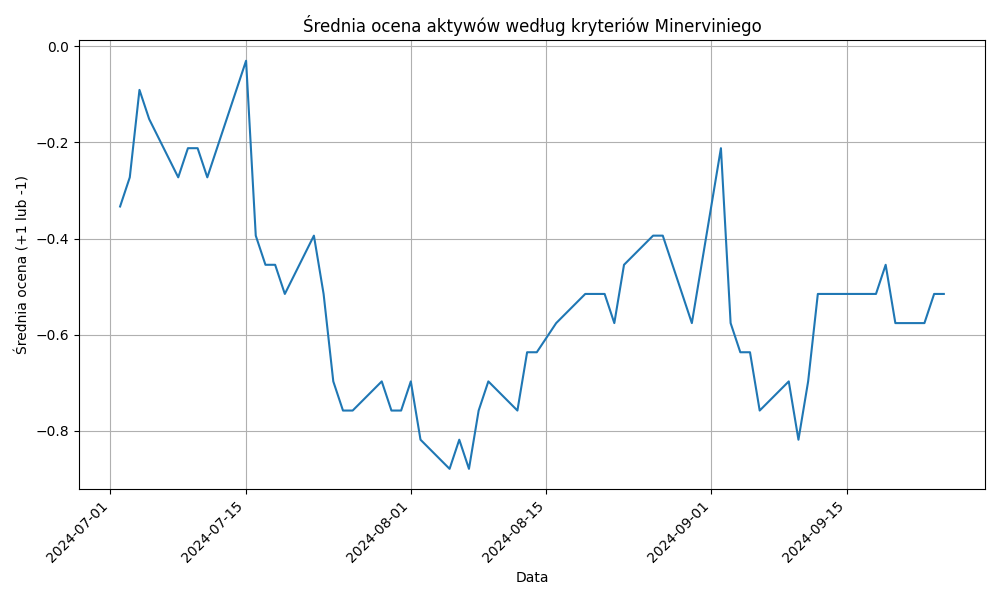
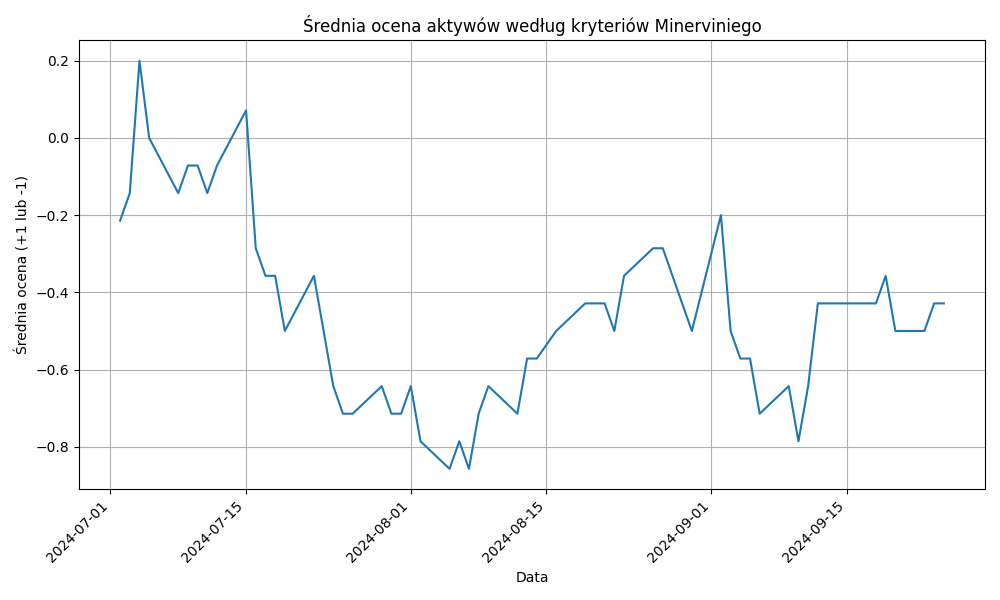
deploy: c1a94c057f85c263817d28b0adb26026a2642f0e

diff --git a/1download.py b/1download.py
@@ -1,129 +1,96 @@
 import yfinance as yf
 import pandas as pd
-import numpy as np
 import os
-from datetime import timedelta
+from datetime import datetime, timedelta
 import matplotlib.pyplot as plt
-import logging
-
-# Ustawienie konfiguracji logowania
-logging.basicConfig(level=logging.INFO, format='%(asctime)s - %(levelname)s - %(message)s')
-
-# Normalizacja dzisiejszej daty
-dzisiaj = pd.Timestamp.today().normalize()
-start_date = dzisiaj - timedelta(days=450)  # Około 15 miesięcy
 
 # Lista aktywów
 polskie_spolki = ['PKN.WA', 'PZU.WA', 'KGH.WA', 'PEO.WA', 'PKO.WA', 'LPP.WA', 'DNP.WA', 'CDR.WA', 'ALR.WA', 'MRC.WA']
 amerykanskie_spolki = ['AAPL', 'MSFT', 'GOOGL', 'AMZN', 'TSLA', 'META', 'NVDA', 'BRK-B', 'JNJ', 'V']
 metale_szlachetne = ['GC=F', 'SI=F', 'PL=F', 'PA=F']
 surowce = ['CL=F', 'NG=F', 'BZ=F', 'HG=F']
-kryptowaluty = ['BTC-USD', 'ETH-USD', 'XRP-USD', 'ADA-USD', 'DOGE-USD']
+aktywa = polskie_spolki + amerykanskie_spolki + metale_szlachetne + surowce
 
-aktywa = polskie_spolki + amerykanskie_spolki + metale_szlachetne + surowce + kryptowaluty
+# Ustawienie dat
+dzisiaj = datetime.today()
+start_date = dzisiaj - timedelta(days=450)  # Około 15 miesięcy
 
 def pobierz_dane(ticker, interval='1d', start=None):
-    """
-    Pobiera dane dla podanego tickera z Yahoo Finance.
-
-    Parametry:
-    ticker (str): Symbol aktywa.
-    interval (str): Interwał danych (domyślnie '1d' - dzienny).
-    start (str): Data początkowa w formacie 'YYYY-MM-DD'.
-
-    Zwraca:
-    DataFrame: Dane pobrane dla danego tickera.
-    """
     try:
         if start:
             df = yf.download(ticker, start=start, end=dzisiaj.strftime('%Y-%m-%d'), interval=interval)
         else:
             df = yf.download(ticker, start=start_date.strftime('%Y-%m-%d'), end=dzisiaj.strftime('%Y-%m-%d'), interval=interval)
         if df.empty:
-            logging.warning(f"Brak danych dla {ticker}. Ticker może być niedostępny.")
+            print(f"Brak danych dla {ticker}. Ticker może być niedostępny.")
             return None
         else:
             # Usunięcie dzisiejszego dnia z danych
             df = df[df.index < dzisiaj]
             return df
     except Exception as e:
-        logging.error(f"Błąd podczas pobierania danych dla {ticker}: {e}")
+        print(f"Błąd podczas pobierania danych dla {ticker}: {e}")
         return None
 
 def aktualizuj_dane(ticker):
-    """
-    Aktualizuje dane dla podanego tickera, zapisując je do pliku CSV.
-
-    Parametry:
-    ticker (str): Symbol aktywa.
-
-    Zwraca:
-    DataFrame: Zaktualizowane dane dla danego tickera.
-    """
     plik = f'{ticker}_data.csv'
     if os.path.exists(plik):
         df = pd.read_csv(plik, index_col=0, parse_dates=True)
-        ostatnia_data = df.index[-1].normalize()
-        if ostatnia_data >= dzisiaj:
-            logging.info(f"Dane dla {ticker} są aktualne.")
+        ostatnia_data = df.index[-1] + pd.Timedelta(days=1)
+        if ostatnia_data.date() >= dzisiaj.date():
+            print(f"Dane dla {ticker} są aktualne.")
             return df
         else:
-            logging.info(f"Aktualizuję dane dla {ticker} od {ostatnia_data.strftime('%Y-%m-%d')}...")
+            print(f"Aktualizuję dane dla {ticker} od {ostatnia_data.date()}...")
             nowe_dane = pobierz_dane(ticker, start=ostatnia_data.strftime('%Y-%m-%d'))
             if nowe_dane is not None:
                 df = pd.concat([df, nowe_dane])
                 df = df[~df.index.duplicated(keep='last')]
                 df.sort_index(inplace=True)
                 df.to_csv(plik)
-            else:
-                logging.warning(f"Brak nowych danych dla {ticker}.")
     else:
-        logging.info(f"Pobieram dane dla {ticker}...")
+        print(f"Pobieram dane dla {ticker}...")
         df = pobierz_dane(ticker)
         if df is not None:
             df.to_csv(plik)
-        else:
-            logging.warning(f"Brak danych dla {ticker}.")
     return df
 
+dane = {}
+for ticker in aktywa:
+    df = aktualizuj_dane(ticker)
+    if df is not None:
+        dane[ticker] = df
+
+print("Dane pobrane i zapisane do plików CSV.")
+
 def oblicz_sma(df, okres):
-    """
-    Oblicza średnią kroczącą (SMA) dla podanego okresu.
-
-    Parametry:
-    df (DataFrame): Dane zawierające kolumnę 'Close'.
-    okres (int): Okres dla średniej kroczącej.
-
-    Zwraca:
-    Series: Średnia krocząca.
-    """
     return df['Close'].rolling(window=okres).mean()
 
 def sprawdz_kryteria_minerviniego(df):
-    """
-    Sprawdza kryteria Minerviniego dla podanego DataFrame.
-
-    Parametry:
-    df (DataFrame): Dane zawierające kolumnę 'Close'.
-
-    Zwraca:
-    DataFrame: Dane z dodaną kolumną 'minervini_ocena'.
-    """
     df['SMA_50'] = oblicz_sma(df, 50)
     df['SMA_150'] = oblicz_sma(df, 150)
     df['SMA_200'] = oblicz_sma(df, 200)
-
+    
     df['52_tyg_min'] = df['Close'].rolling(window=252).min()
     df['52_tyg_max'] = df['Close'].rolling(window=252).max()
 
     # Usunięcie wierszy z brakującymi wartościami
-    df = df.dropna(subset=['SMA_50', 'SMA_150', 'SMA_200', '52_tyg_min', '52_tyg_max']).copy()
+    df = df.dropna(subset=['SMA_50', 'SMA_150', 'SMA_200', '52_tyg_min', '52_tyg_max'])
+    df = df.copy()  # Upewniamy się, że pracujemy na kopii danych
 
-    # Kryteria Minerviniego
+    # Kryterium 1
     kryterium_1 = (df['SMA_50'] > df['SMA_150']) & (df['SMA_50'] > df['SMA_200'])
+    
+    # Kryterium 2
     kryterium_2 = df['SMA_150'] > df['SMA_200']
+    
+    # Kryterium 3
     kryterium_3 = (df['Close'] > df['SMA_50']) & (df['Close'] > df['SMA_150']) & (df['Close'] > df['SMA_200'])
+    
+    # Kryterium 4
     kryterium_4 = df['Close'] > df['52_tyg_min'] * 1.3
+    
+    # Kryterium 5
     kryterium_5 = df['Close'] >= df['52_tyg_max'] * 0.75
 
     # Sumowanie spełnionych kryteriów
@@ -134,124 +101,41 @@ def sprawdz_kryteria_minerviniego(df):
         kryterium_4.astype(int) +
         kryterium_5.astype(int)
     )
-
-    # Dodanie kolumny z oceną -1 lub +1
-    df['minervini_ocena'] = np.where(kryteria_splnione == 5, 1, -1)
+    
+    # Dodanie kolumny z wynikami -1 lub +1
+    df.loc[:, 'minervini_ocena'] = kryteria_splnione.apply(lambda x: 1 if x == 5 else -1)
 
     return df
 
+# Funkcja do obliczania średniej oceny dla każdego dnia
 def oblicz_srednia_ocene(dane):
-    """
-    Oblicza średnią ocenę aktywów dla każdego dnia.
-
-    Parametry:
-    dane (dict): Słownik z DataFrames dla każdego tickera.
-
-    Zwraca:
-    Series: Średnia ocena dla każdego dnia.
-    """
     df_oceny = pd.DataFrame()
-
+    
     for ticker, df in dane.items():
         df_oceny[ticker] = df['minervini_ocena']
-
-    # Uzupełnienie brakujących wartości
-    df_oceny.fillna(0, inplace=True)
-
-    # Obliczenie średniej oceny dla każdego dnia
-    df_oceny['srednia'] = df_oceny.mean(axis=1, skipna=True)
+    
+    # Obliczenie średniej z każdej kolumny (średnia ocena dla każdego dnia)
+    df_oceny['srednia'] = df_oceny.mean(axis=1)
     return df_oceny['srednia']
 
-def generuj_wykres_trendu(dane, nazwa_pliku, aktywa_lista=None):
-    """
-    Generuje wykres trendu cenowego dla podanych danych.
+# Przykład dla wszystkich aktywów
+for ticker, df in dane.items():
+    print(f"Sprawdzam kryteria dla {ticker}...")
+    dane[ticker] = sprawdz_kryteria_minerviniego(df)
 
-    Parametry:
-    dane (dict): Słownik z DataFrames dla każdego tickera.
-    nazwa_pliku (str): Nazwa pliku, do którego zapisany zostanie wykres.
-    aktywa_lista (list): Lista tickerów do uwzględnienia w wykresie.
+print("Wskaźniki obliczone, kryteria Minerviniego sprawdzone.")
 
-    Zwraca:
-    None
-    """
-    plt.figure(figsize=(12, 8))
-    if aktywa_lista is None:
-        aktywa_lista = dane.keys()
-    for ticker in aktywa_lista:
-        df = dane[ticker]
-        df['Close'].plot(label=ticker)
-    plt.title('Trend cenowy aktywów')
-    plt.ylabel('Cena zamknięcia')
-    plt.xlabel('Data')
-    plt.legend()
-    plt.grid(True)
-    plt.xticks(rotation=45)
-    plt.tight_layout()
-    plt.savefig(nazwa_pliku)
-    plt.close()
+# Oblicz średnią ocene dla wszystkich aktywów
+srednia_ocena = oblicz_srednia_ocene(dane)
 
-def zapisz_wyniki_do_html(dane, nazwa_pliku):
-    """
-    Zapisuje wyniki analizy do pliku HTML.
-
-    Parametry:
-    dane (dict): Słownik z DataFrames dla każdego tickera.
-    nazwa_pliku (str): Nazwa pliku HTML.
-
-    Zwraca:
-    None
-    """
-    with open(nazwa_pliku, 'w', encoding='utf-8') as f:
-        f.write('<html><head><meta charset="UTF-8"></head><body>')
-        f.write('<h1>Wyniki analizy Minerviniego</h1>')
-        for ticker, df in dane.items():
-            ostatni_wiersz = df.tail(1)
-            f.write(f'<h2>{ticker}</h2>')
-            f.write(ostatni_wiersz.to_html())
-        f.write('</body></html>')
-
-if __name__ == "__main__":
-    # Pobranie i aktualizacja danych
-    dane = {}
-    for ticker in aktywa:
-        df = aktualizuj_dane(ticker)
-        if df is not None:
-            dane[ticker] = df
-
-    logging.info("Dane pobrane i zapisane do plików CSV.")
-
-    # Przetwarzanie danych i sprawdzanie kryteriów Minerviniego
-    for ticker, df in dane.items():
-        logging.info(f"Sprawdzam kryteria dla {ticker}...")
-        dane[ticker] = sprawdz_kryteria_minerviniego(df)
-
-    logging.info("Wskaźniki obliczone, kryteria Minerviniego sprawdzone.")
-
-    # Oblicz średnią ocenę dla wszystkich aktywów
-    srednia_ocena = oblicz_srednia_ocene(dane)
-
-    # Wykres średniej oceny
-    plt.figure(figsize=(10, 6))
-    srednia_ocena.plot()
-    plt.title('Średnia ocena aktywów według kryteriów Minerviniego')
-    plt.ylabel('Średnia ocena (+1 lub -1)')
-    plt.xlabel('Data')
-    plt.grid(True)
-    plt.xticks(rotation=45)
-    plt.tight_layout()
-    plt.savefig('srednia_ocena_aktywow.png')
-    plt.close()
-
-    # Generowanie wykresów trendów dla różnych grup aktywów
-    generuj_wykres_trendu(dane, 'trend.png')
-
-    # Wykresy dla poszczególnych grup
-    generuj_wykres_trendu(dane, 'trend_akcje_pl.png', polskie_spolki)
-    generuj_wykres_trendu(dane, 'trend_akcje_us.png', amerykanskie_spolki)
-    generuj_wykres_trendu(dane, 'trend_surowce.png', surowce + metale_szlachetne)
-    generuj_wykres_trendu(dane, 'trend_kryptowaluty.png', kryptowaluty)
-
-    # Zapisanie wyników do pliku HTML
-    zapisz_wyniki_do_html(dane, 'wyniki_minervini.html')
-
-    logging.info("Wszystkie wykresy i raporty zostały wygenerowane.")
+# Wykres średniej oceny
+plt.figure(figsize=(10, 6))
+srednia_ocena.plot()
+plt.title('Średnia ocena aktywów według kryteriów Minerviniego')
+plt.ylabel('Średnia ocena (+1 lub -1)')
+plt.xlabel('Data')
+plt.grid(True)
+plt.xticks(rotation=45)
+plt.tight_layout()
+plt.savefig('srednia_ocena_aktywow.png')
+plt.show()
